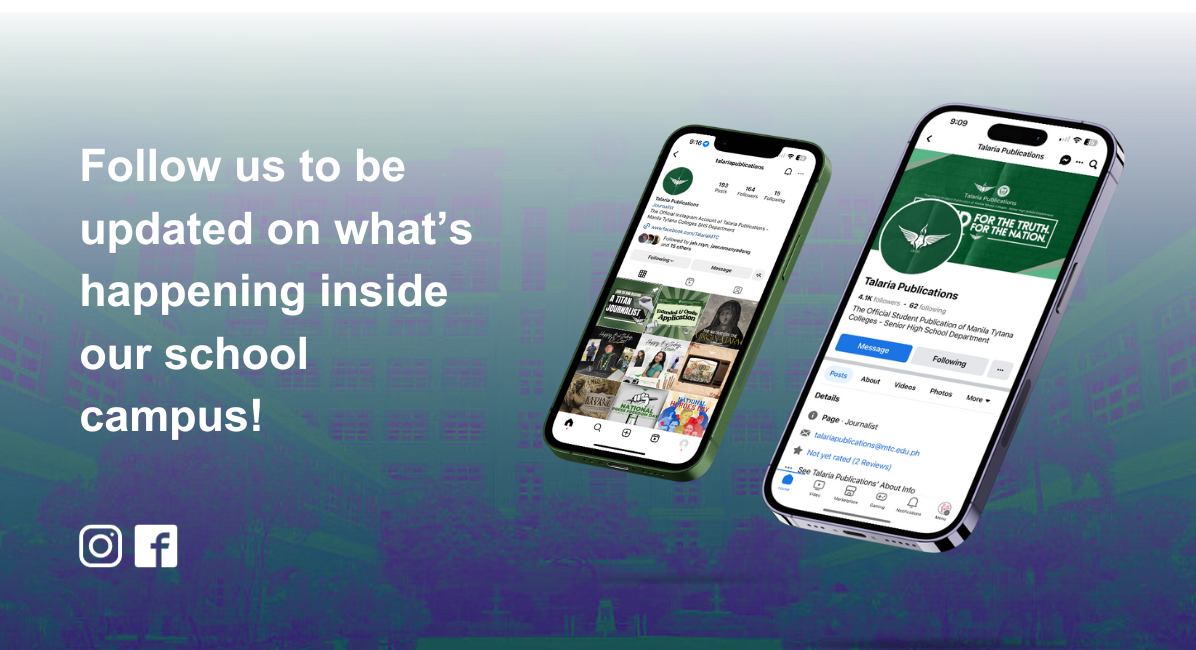
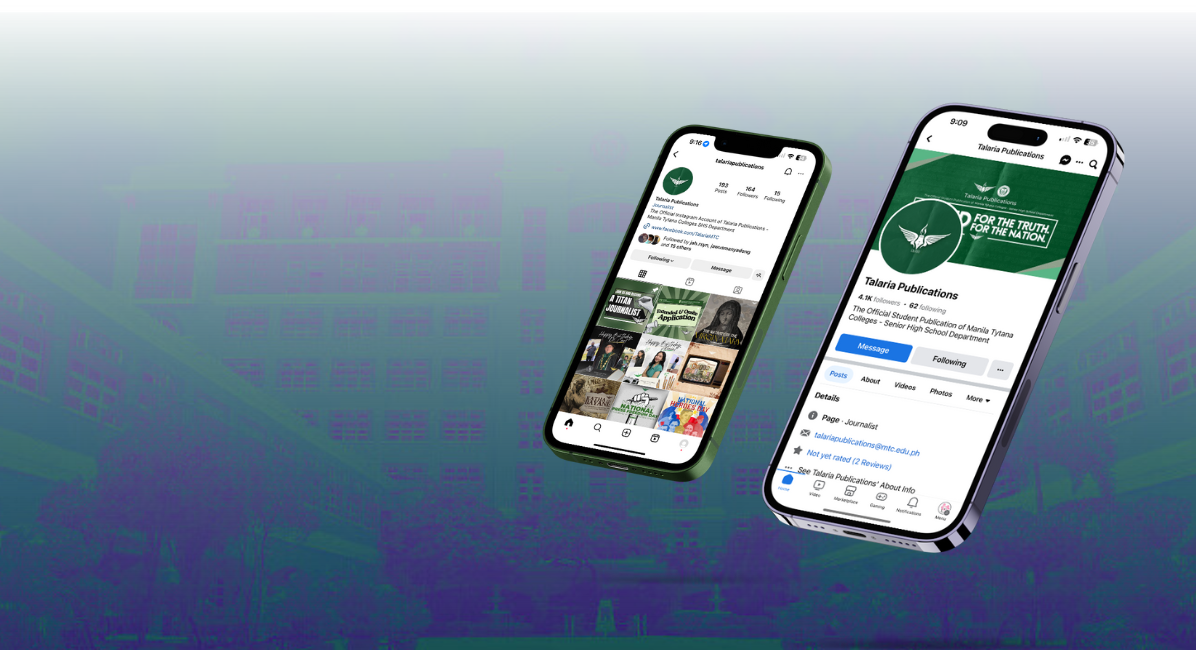
index

diff --git a/index.html b/index.html
@@ -24,7 +24,7 @@
 		<div class="textbox">
 			<p style="font-size: 250%;color: #2C4C3B;font-family: 'arial';margin-bottom: 8px;margin-left: 9%;"><b>Highlights</b></p>
 			<div class="boxed">
-				<img src="highlights2.png" width="1196px" height="347px">
+				<img src="highlights1.png" width="1196px" height="347px">
 			</div>
 
 			<h1 style="font-size:200%;margin-top:1%;margin-left:9%;margin-bottom:-10%;font-weight:bold;">LOOK | Oath taking Ceremony of Newly Elected SHSC Officers</h1>
@@ -35,6 +35,9 @@
 			<p style="font-family:Times New Roman;font-size:110%;margin-left:9%;margin-top:10%;">sndjsadjadkahsdkkanskdnas</p>
 		</div>
 		
+		<div>
+			<img src="index.png">
+		</div>
 	</body>
 
 </html>

diff --git a/index.css b/index.css
@@ -73,27 +73,23 @@ body{
 }
 
 
-/*HIGHLIGHTS*/
+/*HOME PAGE*/
 .boxed {
 	border: 3px solid green;
 	margin-left: 9%;
 	margin-right: 9%;
 	}
 
-.boxed{
+.boxed {
 	display:block;
 	border:3px;
 	margin-top:1px;
 	margin-left:9%;
 	margin-right:9%;
-}
-			
-.box {
-	margin:1%
 	}
 
 .textbox {
-	margin-top: 0;
+	margin-left: 1%;
 	}
 		
 .textbox h1{
@@ -101,7 +97,7 @@ body{
 	margin-left: 9%;
 	margin-bottom: -10%;
 	font-weight: bold;
-}
+	}
 
 .textbox p{
 	font-size: 110%;
